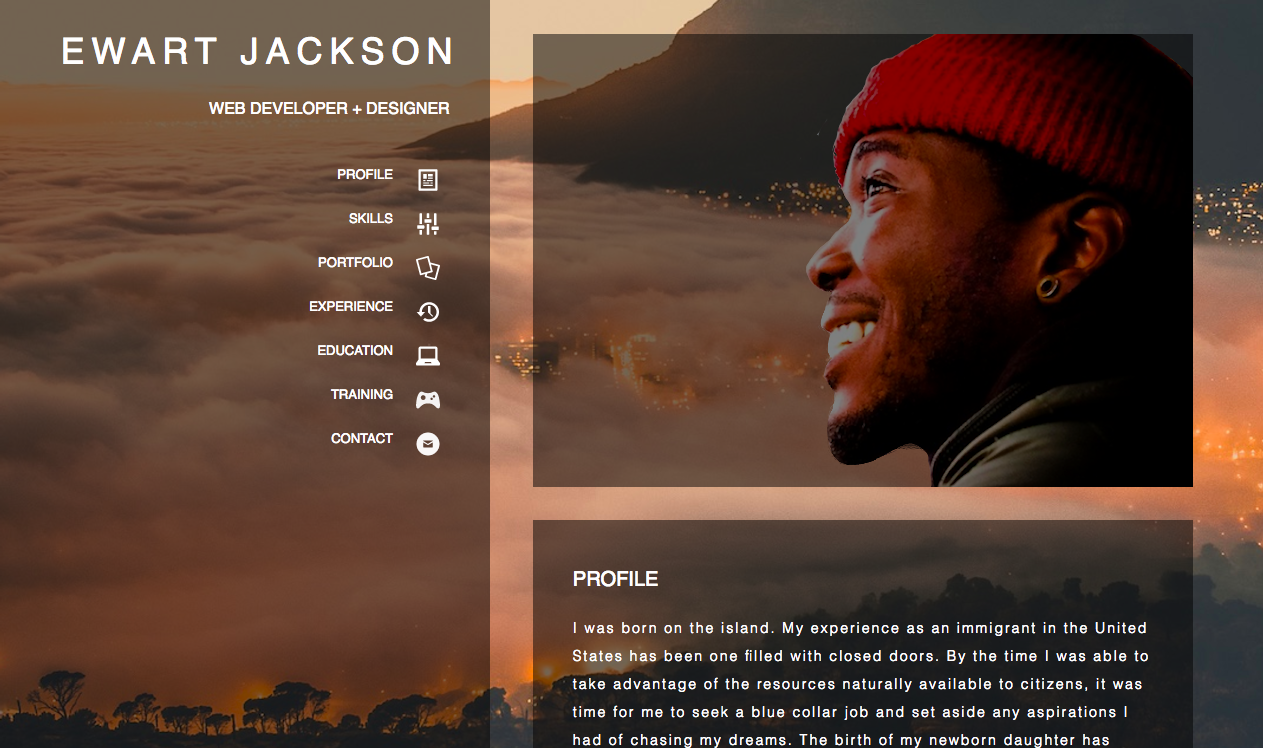
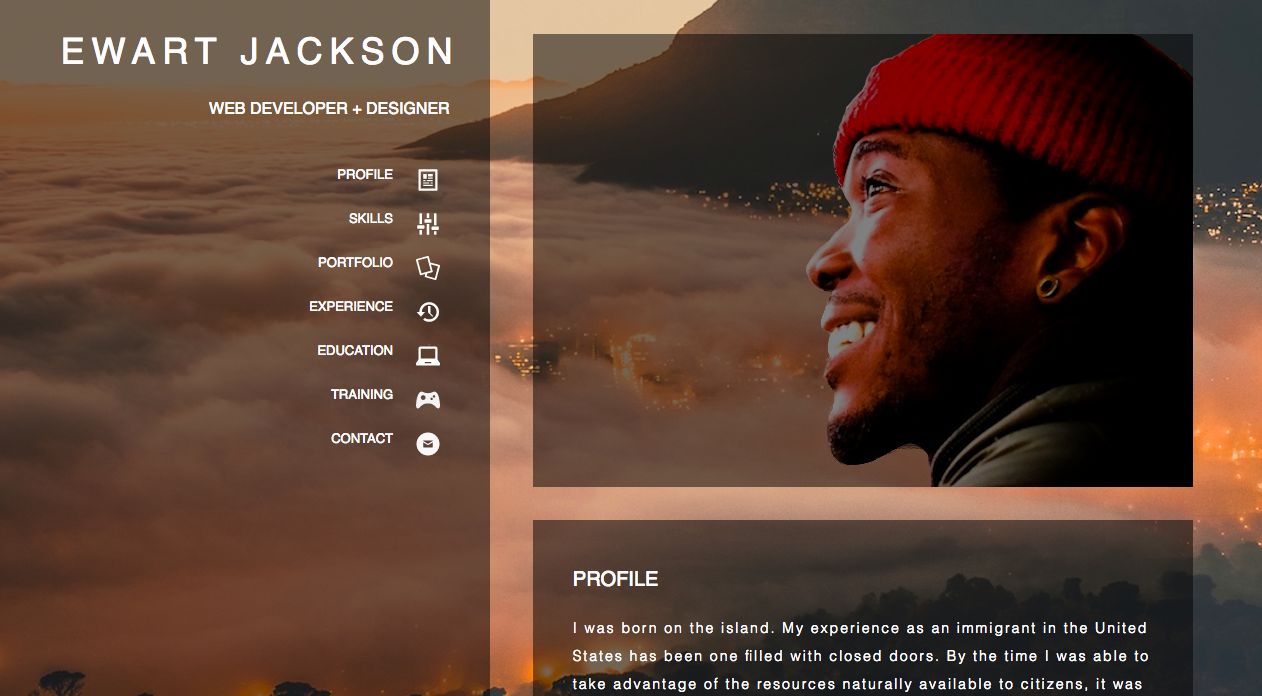
sizing revisions

diff --git a/css/main.css b/css/main.css
@@ -337,7 +337,7 @@ text-align: left;
 .info p {
  text-align: left;
  margin-left: 0;
- font-size: 12px;
+ font-size: 14px;
 }
 
 #accordion {

diff --git a/css/main-small.css b/css/main-small.css
@@ -365,6 +365,7 @@
  .info p {
    text-align: left;
    margin-left: 0;
+   font-size: 14px;
  }
 
   #portfolio ul li {
